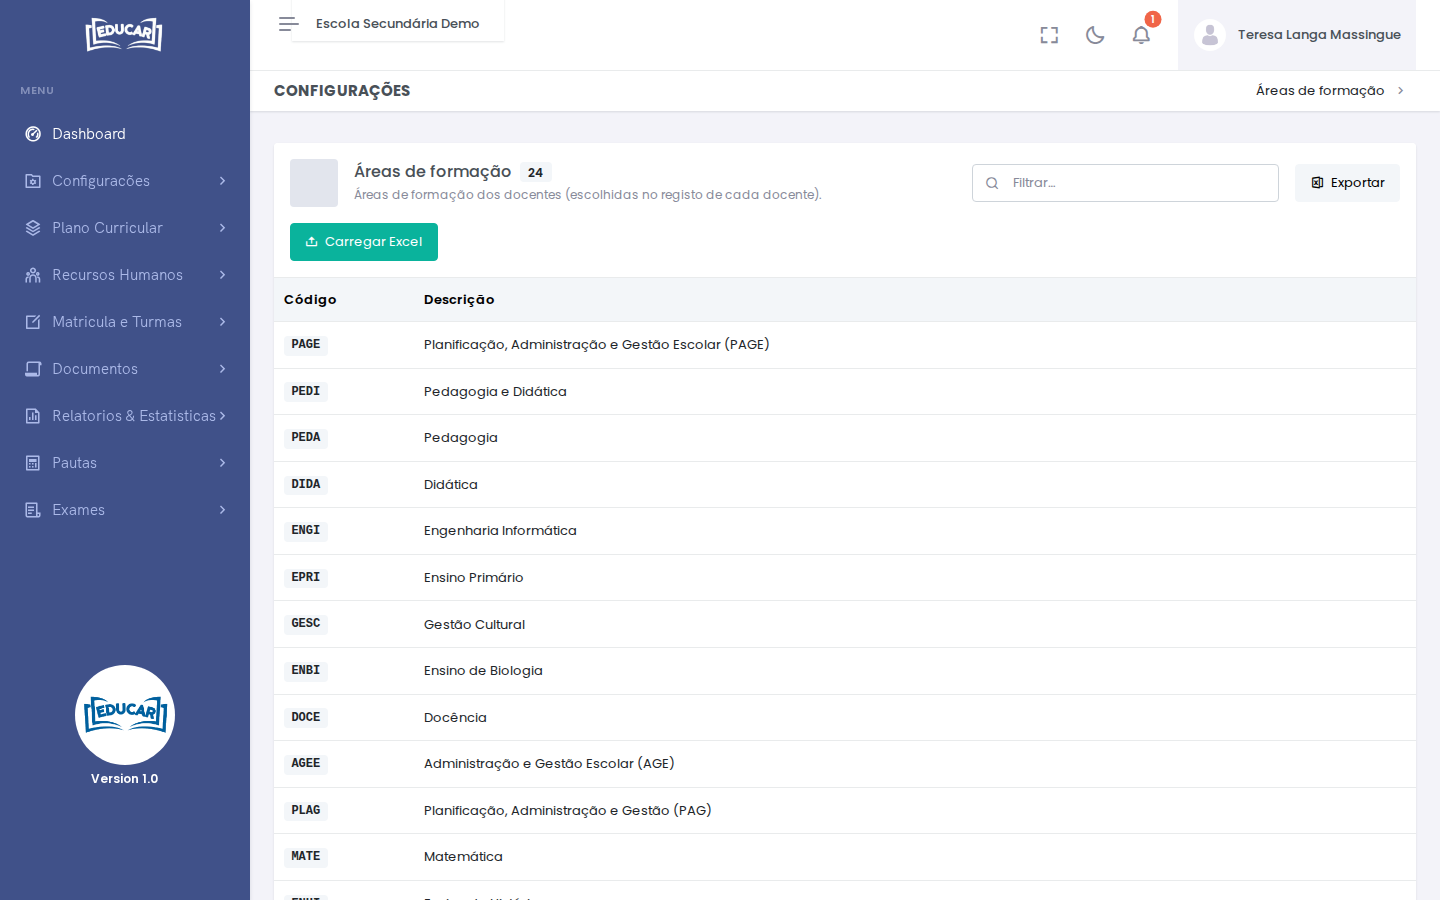
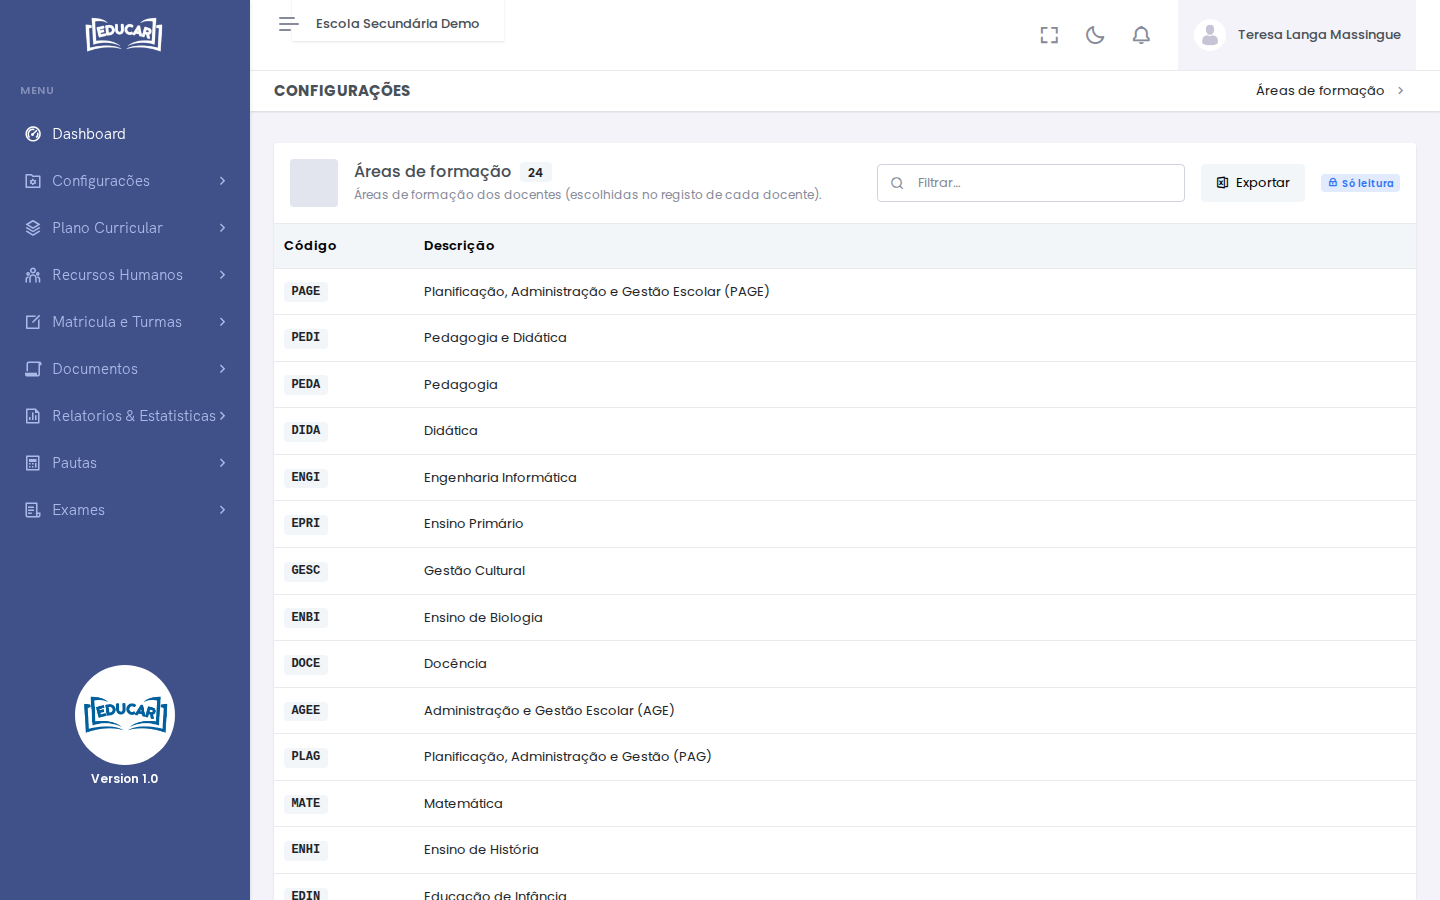
Training areas are changed only by ELIXIR

diff --git a/docs/menus/recursos-humanos/areas-de-formacao.md b/docs/menus/recursos-humanos/areas-de-formacao.md
@@ -3,17 +3,12 @@
 **Menu:** Recursos Humanos › Áreas de Formação
 **Quem vê:** Director da escola, Director pedagógico
 
-As áreas de formação que se podem escolher no registo de cada docente, como `Ensino de Matemática` ou `Pedagogia`.
+As áreas de formação que se podem escolher no registo de cada docente, como `Ensino de Matemática` ou `Pedagogia`. A lista é a mesma para todas as escolas que usam o EDUCAR.
 
 ![Áreas de formação](img/areas-de-formacao.png)
 
 ## Acrescentar ou corrigir áreas
 
-As áreas carregam-se a partir de um ficheiro Excel, com as colunas **Código** e **Descrição**.
+Só a ELIXIR altera esta lista. Se precisar de uma área nova ou de corrigir uma descrição, fale com a ELIXIR.
 
-1. Use **Exportar** para descarregar a lista actual, no formato do carregamento.
-2. Acrescente as linhas das áreas novas ou corrija as descrições.
-3. Use **Carregar Excel** e escolha o ficheiro.
-
-!!! warning "A lista é comum"
-    As áreas são as mesmas para todas as escolas que usam o EDUCAR. Um código que já existe fica com a descrição do ficheiro, por isso corrija só o que tiver a certeza.
+**Exportar** descarrega a lista actual em Excel.
